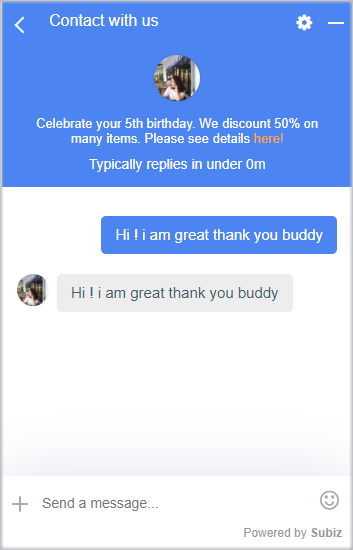
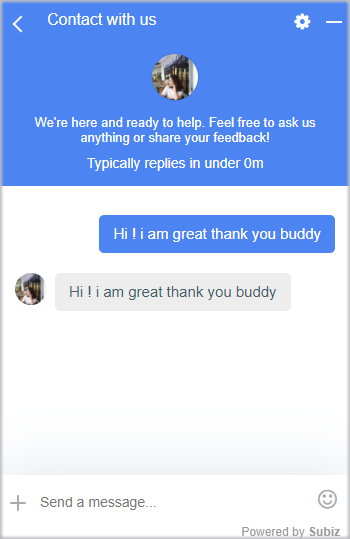
GitBook: [master] one page and 2 assets modified

diff --git a/getting-started-with-subiz/setting-up-interaction-environments/installing-subiz-on-websites/customizing-subiz-chat-widget.md b/getting-started-with-subiz/setting-up-interaction-environments/installing-subiz-on-websites/customizing-subiz-chat-widget.md
@@ -23,9 +23,7 @@ Components you can change in the code above:
 
 &lt;a href="http://example.com"&gt; &lt;font color = "orange"&gt; here! &lt;/ font&gt; &lt;/a&gt; &lt;/ p&gt;
 
-
-
-![](../../../.gitbook/assets/cd-cs-chat1%20%281%29.png)
+![](../../../.gitbook/assets/cd-cs-chat%20%282%29.png)
 {% endtab %}
 
 {% tab title="Down the line on the introduction" %}
